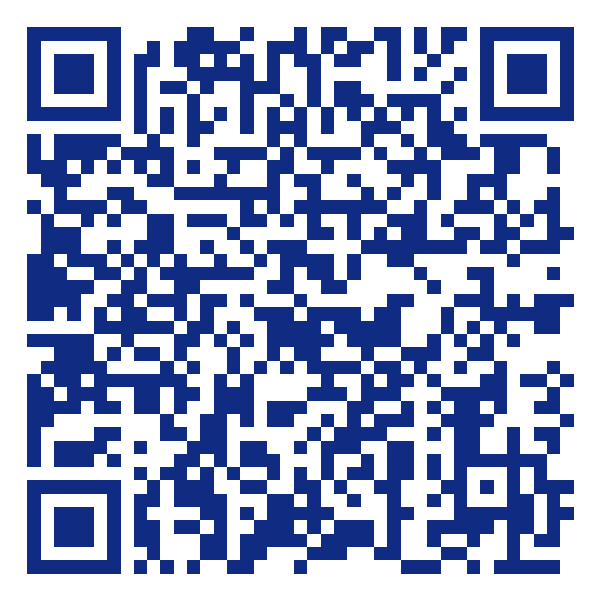
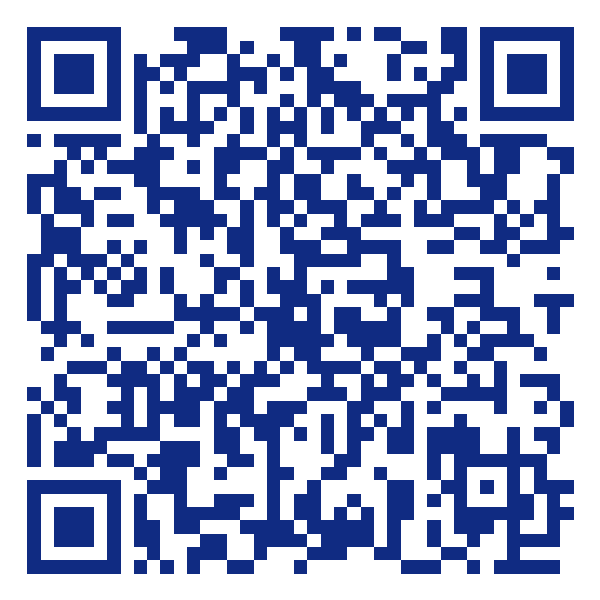
Lower Grounds Pass price to R$80, soften application copy, skip straight to payment after applying
- CONFIG.price R$120 -> R$80, with a matching regenerated/verified Pix QR
- Soften the landing lede's "membership is by application only" wording across en/pt/es
- Remove the manual-approval gate: submitting the application now goes straight to the payment screen (after the brief "reviewing" beat) instead of a "Thank You, under review" screen waiting on a manually-sent #approved link — an in-between step was costing interest. The #approved direct link still works for sharing the payment screen on its own.
- Update README to match

Claude-Session: https://claude.ai/code/session_01HFPMNeaAPvAji3c197tfHJ

diff --git a/script.js b/script.js
@@ -2,7 +2,7 @@
 // CONFIG — everything you need to customize lives here.
 // ---------------------------------------------------------------------------
 const CONFIG = {
-  price: "R$120",
+  price: "R$80",
 
   // Your Pix key (shown as text, and encoded into assets/pix-qr.png).
   // If you ever change the key or amount, regenerate that QR image to match.
@@ -160,7 +160,7 @@ const TRANSLATIONS = {
   en: {
     landing: {
       eyebrow: "Rio de Janeiro · Applications Open Now",
-      lede: "Find your common ground — weekly meetups, international circle, functional mocktails included every time. Membership is by application only.",
+      lede: "Find your common ground — weekly meetups, international circle, functional mocktails included every time. New members start with a quick application.",
       apply: "Apply for Your Grounds Pass",
       finePrint: "Takes about a minute. {price} if approved.",
       menuLink: "See what's included — the drinks menu →",
@@ -192,13 +192,6 @@ const TRANSLATIONS = {
         "Submitting your application…",
       ],
     },
-    pending: {
-      eyebrow: "Application Received",
-      heading: "Thank You",
-      lede: "Your application is being reviewed. If you're a good fit, we'll message you on WhatsApp soon with your invitation and payment details.",
-      menuLink: "See what's included — the drinks menu →",
-      finePrint: "Questions in the meantime? DM us on Instagram {handle}.",
-    },
     approved: {
       eyebrow: "Application Approved",
       heading: "Welcome to Common Ground.",
@@ -218,7 +211,7 @@ const TRANSLATIONS = {
   pt: {
     landing: {
       eyebrow: "Rio de Janeiro · Inscrições Abertas",
-      lede: "Encontre seu common ground — encontros semanais, um círculo internacional, mocktails funcionais incluídos sempre. A associação é somente por inscrição.",
+      lede: "Encontre seu common ground — encontros semanais, um círculo internacional, mocktails funcionais incluídos sempre. Novos membros começam com uma inscrição rápida.",
       apply: "Inscreva-se para o seu Grounds Pass",
       finePrint: "Leva cerca de um minuto. {price} se aprovado(a).",
       menuLink: "Veja o que está incluído — o cardápio de bebidas →",
@@ -250,13 +243,6 @@ const TRANSLATIONS = {
         "Enviando sua inscrição…",
       ],
     },
-    pending: {
-      eyebrow: "Inscrição Recebida",
-      heading: "Obrigado(a)!",
-      lede: "Sua inscrição está sendo analisada. Se for um bom encaixe, mandaremos uma mensagem no WhatsApp em breve com seu convite e os detalhes do pagamento.",
-      menuLink: "Veja o que está incluído — o cardápio de bebidas →",
-      finePrint: "Dúvidas enquanto isso? Chame no Instagram {handle}.",
-    },
     approved: {
       eyebrow: "Inscrição Aprovada",
       heading: "Bem-vindo(a) à Common Ground.",
@@ -276,7 +262,7 @@ const TRANSLATIONS = {
   es: {
     landing: {
       eyebrow: "Río de Janeiro · Inscripciones Abiertas",
-      lede: "Encuentra tu common ground — encuentros semanales, un círculo internacional, mocktails funcionales incluidos siempre. La membresía es solo por solicitud.",
+      lede: "Encuentra tu common ground — encuentros semanales, un círculo internacional, mocktails funcionales incluidos siempre. Los nuevos miembros comienzan con una solicitud rápida.",
       apply: "Solicita tu Grounds Pass",
       finePrint: "Toma cerca de un minuto. {price} si eres aprobado/a.",
       menuLink: "Mira qué está incluido — el menú de bebidas →",
@@ -307,13 +293,6 @@ const TRANSLATIONS = {
         "Verificando que encajes con el grupo…",
         "Enviando tu solicitud…",
       ],
-    },
-    pending: {
-      eyebrow: "Solicitud Recibida",
-      heading: "¡Gracias!",
-      lede: "Tu solicitud está siendo revisada. Si encajas bien, te escribiremos pronto por WhatsApp con tu invitación y los detalles de pago.",
-      menuLink: "Mira qué está incluido — el menú de bebidas →",
-      finePrint: "¿Dudas mientras tanto? Escríbenos por Instagram {handle}.",
     },
     approved: {
       eyebrow: "Solicitud Aprobada",
@@ -383,10 +362,6 @@ function renderLandingFinePrint() {
   document.getElementById("landing-fine-print").textContent = t("landing.finePrint").replace("{price}", CONFIG.price);
 }
 
-function renderPendingFinePrint() {
-  document.getElementById("pending-fine-print").textContent = t("pending.finePrint").replace("{handle}", CONFIG.instagramHandle);
-}
-
 function renderApprovedFinePrint() {
   document.getElementById("approved-fine-print").textContent = t("approved.finePrint").replace("{handle}", CONFIG.instagramHandle);
 }
@@ -421,7 +396,6 @@ function applyLang(lang) {
   });
 
   renderLandingFinePrint();
-  renderPendingFinePrint();
   renderApprovedFinePrint();
   renderWhatsappBtn();
   renderMenuLinks();
@@ -753,7 +727,7 @@ function runReviewSequence() {
 
   setTimeout(() => {
     clearInterval(interval);
-    showScreen("pending");
+    showScreen("approved");
   }, messages.length * 850 + 250);
 }
 

diff --git a/index.html b/index.html
@@ -93,16 +93,7 @@
       <h2 class="display" id="reviewing-text">Reviewing your application&hellip;</h2>
     </section>
 
-    <!-- PENDING (the real ending — applications are reviewed by a person, not auto-approved) -->
-    <section class="screen" data-screen="pending">
-      <p class="eyebrow" data-i18n="pending.eyebrow">Application Received</p>
-      <h1 class="display" data-i18n="pending.heading">Thank You</h1>
-      <p class="lede" data-i18n="pending.lede">Your application is being reviewed. If you're a good fit, we'll message you on WhatsApp soon with your invitation and payment details.</p>
-      <a class="link-secondary" href="menu.html" data-menu-link data-i18n="pending.menuLink">See what's included — the drinks menu →</a>
-      <p class="fine-print" id="pending-fine-print"></p>
-    </section>
-
-    <!-- APPROVED (reached directly via a link you send once someone's approved — see README) -->
+    <!-- APPROVED (the real ending — reached right after applying, straight to payment; also reachable directly via a link — see README) -->
     <section class="screen" data-screen="approved">
       <p class="eyebrow" data-i18n="approved.eyebrow">Application Approved</p>
       <h1 class="display" data-i18n="approved.heading">Welcome to Common Ground.</h1>

diff --git a/README.md b/README.md
@@ -3,39 +3,41 @@ Find your common ground. A social club.
 
 ## Grounds Pass application page
 
-A social club in Rio de Janeiro. The Grounds Pass (R$120) gets members into weekly events with coffee-based and matcha-based mocktails included.
+A social club in Rio de Janeiro. The Grounds Pass (R$80) gets members into weekly events with coffee-based and matcha-based mocktails included.
 
 Two static pages, no build step, no backend required:
 
-- **`index.html` / `styles.css` / `script.js`** — the application landing page for the Instagram bio link. Flow: hero (with a small 🇬🇧/🇧🇷/🇪🇸 language switch in the top-right corner) → application questions (name, then multiple-choice/multi-select) → WhatsApp number/IG → a short "reviewing your application" beat → a "Thank You, under review" screen. Every question screen and the WhatsApp/IG screen has a **← Back** button, so applicants can revisit and change any earlier answer before submitting — their answers (and whatever they've typed into the WhatsApp/IG fields) are restored, not cleared, when they go back. Contact is collected as a WhatsApp number rather than an email — it's the more casual, on-brand way to reach someone, and it's what the approved/payment screen already uses. Applications aren't auto-approved — see **Payment** below for how someone actually gets to pay.
-- **`menu.html` / `menu.js`** — the drinks menu page (linked from the landing and approved screens), showing what's included with the pass.
+- **`index.html` / `styles.css` / `script.js`** — the application landing page for the Instagram bio link. Flow: hero (with a small 🇬🇧/🇧🇷/🇪🇸 language switch in the top-right corner) → application questions (name, then multiple-choice/multi-select) → WhatsApp number/IG → a short "reviewing your application" beat → straight into the payment screen. Every question screen and the WhatsApp/IG screen has a **← Back** button, so applicants can revisit and change any earlier answer before submitting — their answers (and whatever they've typed into the WhatsApp/IG fields) are restored, not cleared, when they go back. Contact is collected as a WhatsApp number rather than an email — it's the more casual, on-brand way to reach someone, and it's what the payment screen already uses.
+- **`menu.html` / `menu.js`** — the drinks menu page (linked from the landing and payment screens), showing what's included with the pass.
 
-### Applications aren't auto-approved — how payment actually happens
+### How payment actually happens
 
-Since applicants answer real, open-ended questions, there's no way to auto-decide who gets in — a person has to read the answers. So the public flow ends at a "Thank You, your application is under review" screen (`data-screen="pending"`), not at payment.
+There's no manual approval gate — an in-between step between applying and paying loses people, so the flow goes straight from the questionnaire to the payment screen (`data-screen="approved"`). The short "reviewing your application…" beat plays for a couple of seconds while the answers are actually submitted, then it lands on payment automatically.
 
-Once you've reviewed someone's application (check your Formspree inbox) and decided to let them in, send them **`yoursite.com/#approved`** — on WhatsApp (using the number they gave you), Instagram DM, wherever — and that link drops them straight onto the payment screen (`data-screen="approved"`), skipping the whole questionnaire. One tap from your message to the Pix QR code. No backend, no accounts, no per-person unique links — just the one shared hash link you send manually to whoever you've accepted.
+The application itself is still saved in full (to your Formspree inbox, plus a local-only backup in the browser), so you can read every answer and follow up on WhatsApp afterwards if someone isn't a fit — nothing here auto-adds anyone to the group itself, it just gets them to the Pix QR without waiting on you first.
+
+You can also send that same payment screen directly to anyone at any time: **`yoursite.com/#approved`** — on WhatsApp, Instagram DM, wherever — drops them straight onto it, skipping the whole questionnaire. Handy for a friend you're waving in without the form, or for resending the payment step to someone who dropped off. No backend, no accounts, no per-person unique links — just the one shared hash link.
 
 That payment screen shows a **Pix QR code + copyable Pix key** to pay directly in any Brazilian bank app, then a **"Send Payment Proof on WhatsApp"** button so you can manually confirm and let them into the group. It's already set up:
 
 - **Pix key**: `danwhitt2002@gmail.com` (`script.js` → `CONFIG.pixKey`, and baked into `assets/pix-qr.png`)
 - **WhatsApp**: `+44 7830 067043` (`script.js` → `CONFIG.whatsappNumber`) — tapping the button opens a chat pre-filled with a message so they just attach their payment screenshot.
 
-If you ever change the Pix key or the R$120 price, you'll need a new QR — regenerate `assets/pix-qr.png` (any Pix "BR Code" / EMV QR generator works, or ask me and I'll rebuild it) so it stays in sync with `CONFIG.pixKey`.
+If you ever change the Pix key or the R$80 price, you'll need a new QR — regenerate `assets/pix-qr.png` (any Pix "BR Code" / EMV QR generator works, or ask me and I'll rebuild it) so it stays in sync with `CONFIG.pixKey`.
 
 ### Before you go live, edit `script.js` → `CONFIG`:
 
 1. **`formEndpoint`** — already set to your Formspree endpoint (`https://formspree.io/f/mbgjrjnp`), so applications submit there automatically. They're also kept as a local-only backup in the browser's `localStorage` either way.
-2. **`price`** — currently `R$120`, shown on the landing and approved screens (should match the amount encoded in the Pix QR).
-3. **`instagramHandle`** — shown on the pending and approved screens.
+2. **`price`** — currently `R$80`, shown on the landing and approved screens (should match the amount encoded in the Pix QR).
+3. **`instagramHandle`** — shown on the payment screen.
 4. **`questions`** — the application questions, in order. Each is `type: "choice"` (single-select, needs an `options` array, tapping one auto-advances), `type: "multi"` (multi-select — same `options` array, tap any number then hit Continue; set `hint` for a note like "Choose one or more"), or `type: "text"`/`"textarea"` (a free-response field — `"text"` is one short line like a name, `"textarea"` is a longer answer). A `"choice"` question can also set `writeIn` to the `en` value of one option (e.g. "Something else") — selecting it opens a text box instead of submitting right away, so you get a real answer instead of a vague catch-all; pair it with `writeInPlaceholder`. An optional `key` (e.g. `"name"`) surfaces that answer as its own field in the saved application, in addition to the full Q&A list.
 
 ### Languages — English, Português, Español
 
-Three small flag buttons (🇬🇧/🇧🇷/🇪🇸) sit in the top-right corner of the landing screen — tapping one translates the entire application flow in place (every question, button, error message, and the contact/pending/approved screens) without navigating anywhere. Two places hold the translated text, both in `script.js`:
+Three small flag buttons (🇬🇧/🇧🇷/🇪🇸) sit in the top-right corner of the landing screen — tapping one translates the entire application flow in place (every question, button, error message, and the contact/payment screens) without navigating anywhere. Two places hold the translated text, both in `script.js`:
 
 - **`CONFIG.questions`** — each question's `text`/`hint`/`placeholder`/`writeInPlaceholder`, and every entry in an `options` array, is an `{ en, pt, es }` object instead of a plain string. Add a fourth language by adding its key to each of these objects (and to `TRANSLATIONS` below) — nothing else needs to change structurally.
-- **`TRANSLATIONS`** — every other on-screen string (landing copy, buttons, error messages, the pending/approved screens, the WhatsApp pre-filled message), one block per language, looked up by dot-path (e.g. `t("landing.apply")`). A handful of strings are templated with `{price}`/`{handle}`/`{current}`/`{total}` placeholders, filled in with a plain `.replace()` where they're used.
+- **`TRANSLATIONS`** — every other on-screen string (landing copy, buttons, error messages, the payment screen, the WhatsApp pre-filled message), one block per language, looked up by dot-path (e.g. `t("landing.apply")`). A handful of strings are templated with `{price}`/`{handle}`/`{current}`/`{total}` placeholders, filled in with a plain `.replace()` where they're used.
 
 Multiple-choice answers are saved in whichever language the applicant used (so their own words come through), plus an `answerEn` field with the canonical English option text, so you can review applications consistently regardless of which language someone applied in. The saved application also includes a top-level `language` field. The direct `#approved` payment link (see below) always shows in English, since that path never touches the landing screen's flag switcher.
 
